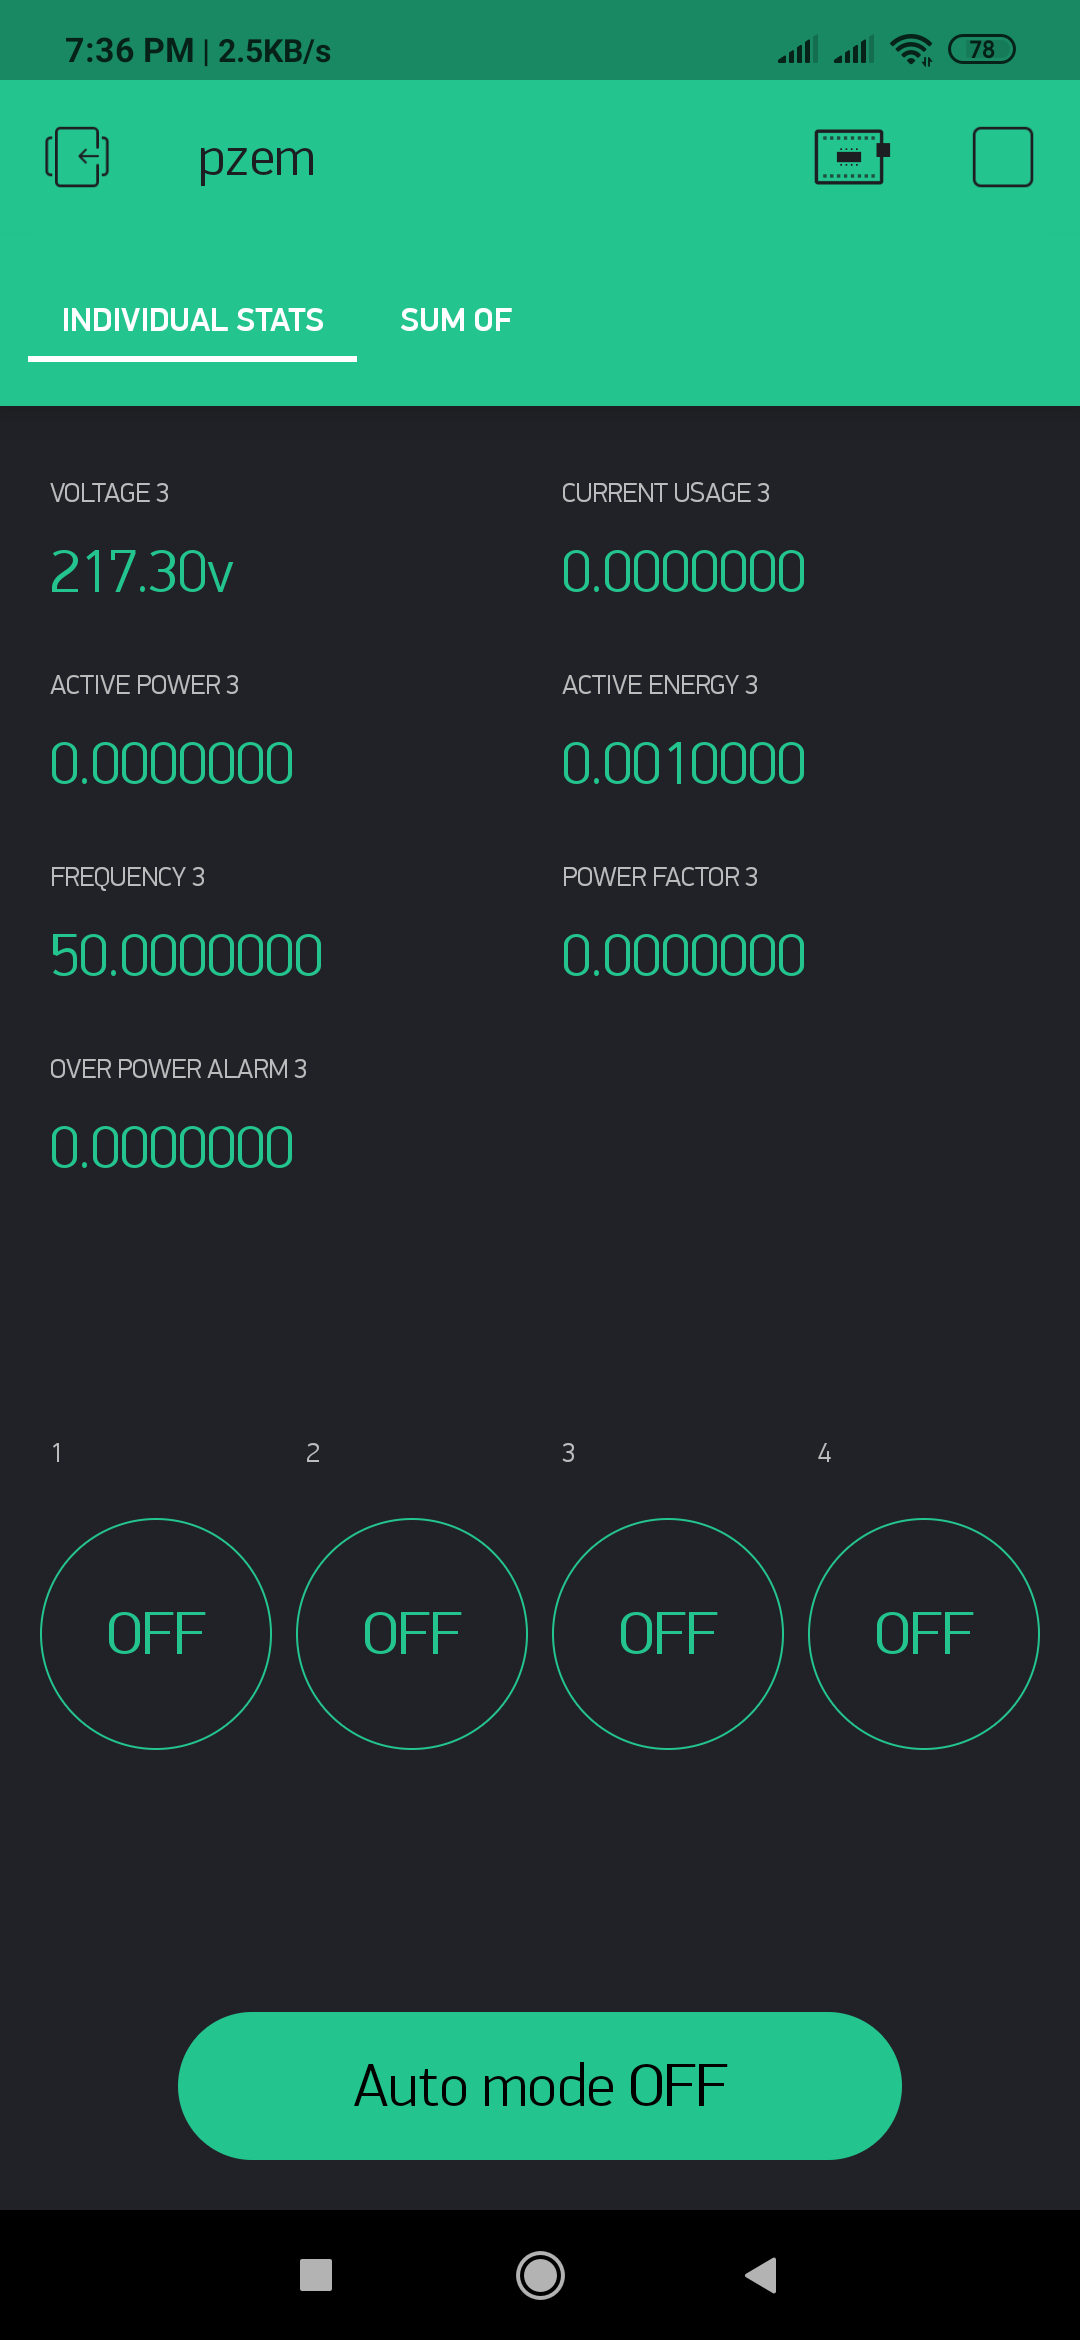
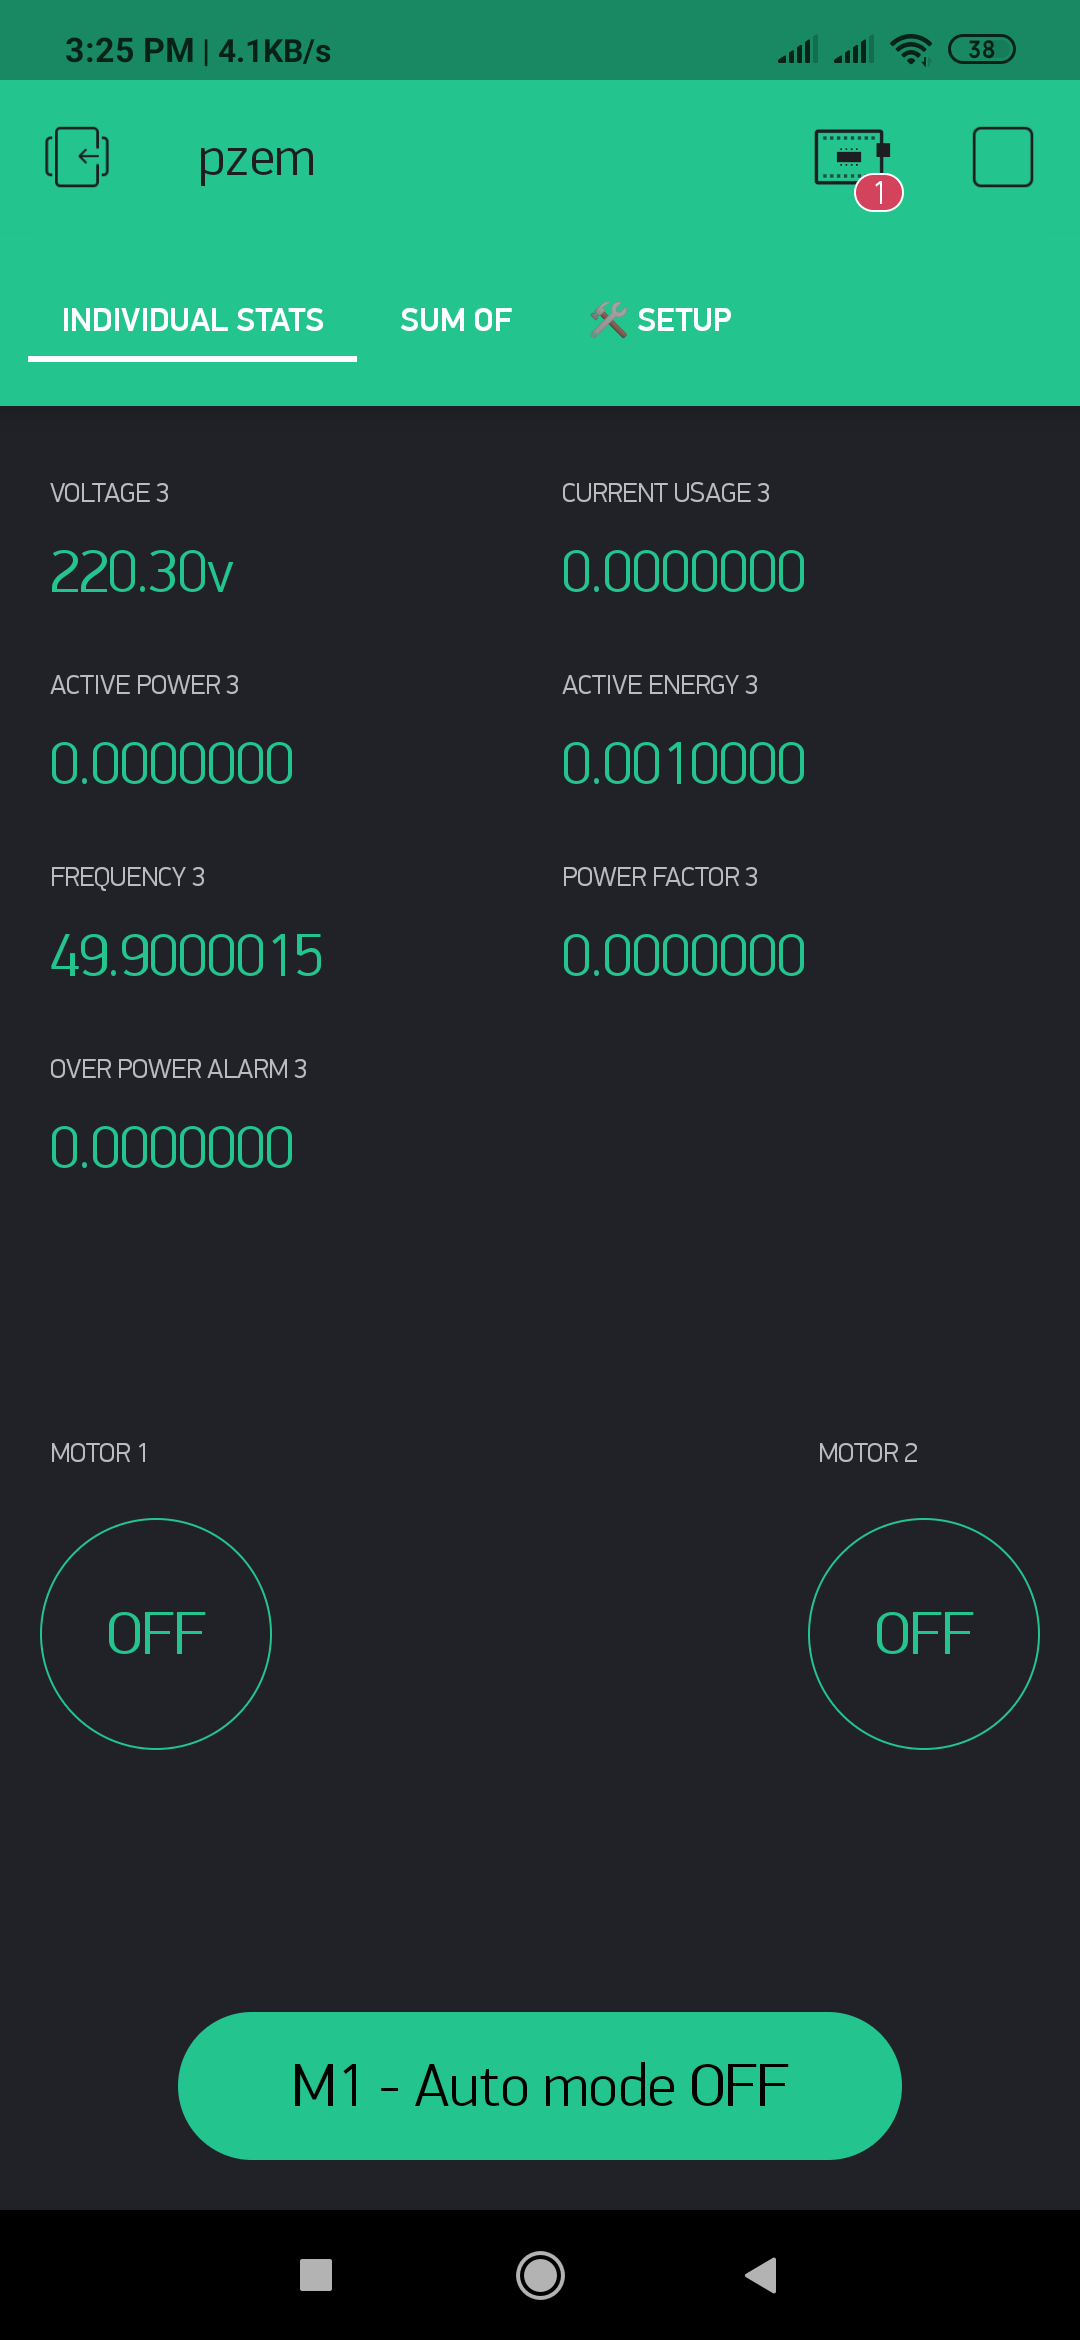
implemented button 1 to operate 2 relay at once

diff --git a/Blynk-PZEM-004T-Phase-Failure-Automation/settings.h b/Blynk-PZEM-004T-Phase-Failure-Automation/settings.h
@@ -3,7 +3,7 @@
 /////////////////////////////////////////////////////////////////
 
 #define FIRMWARE_VERSION      00.20               // Version number. Increase each version as per your software version. Used for FOTA
-#define BUILD_NUMBER          40                 // Build number is something like change some variables in code and building binary file. 
+#define BUILD_NUMBER          002                 // Build number is something like change some variables in code and building binary file. 
 
 /***************************************************
           NodeMCU Pin Assignment
@@ -59,8 +59,8 @@ How often you would like to call function? Enter time in milliseconds
 
 #define VPIN_BUTTON_1                 V1
 #define VPIN_BUTTON_2                 V2
-//#define VPIN_BUTTON_3                 V3
-//#define VPIN_BUTTON_4                 V4
+#define VPIN_BUTTON_3                 V3
+#define VPIN_BUTTON_4                 V4
 
 #define VPIN_AUTO_MODE_BUTTON_1       V5                     // This button is to switch on motor in auto mode
 #define VPIN_FIRMWARE_UPDATE          V6
